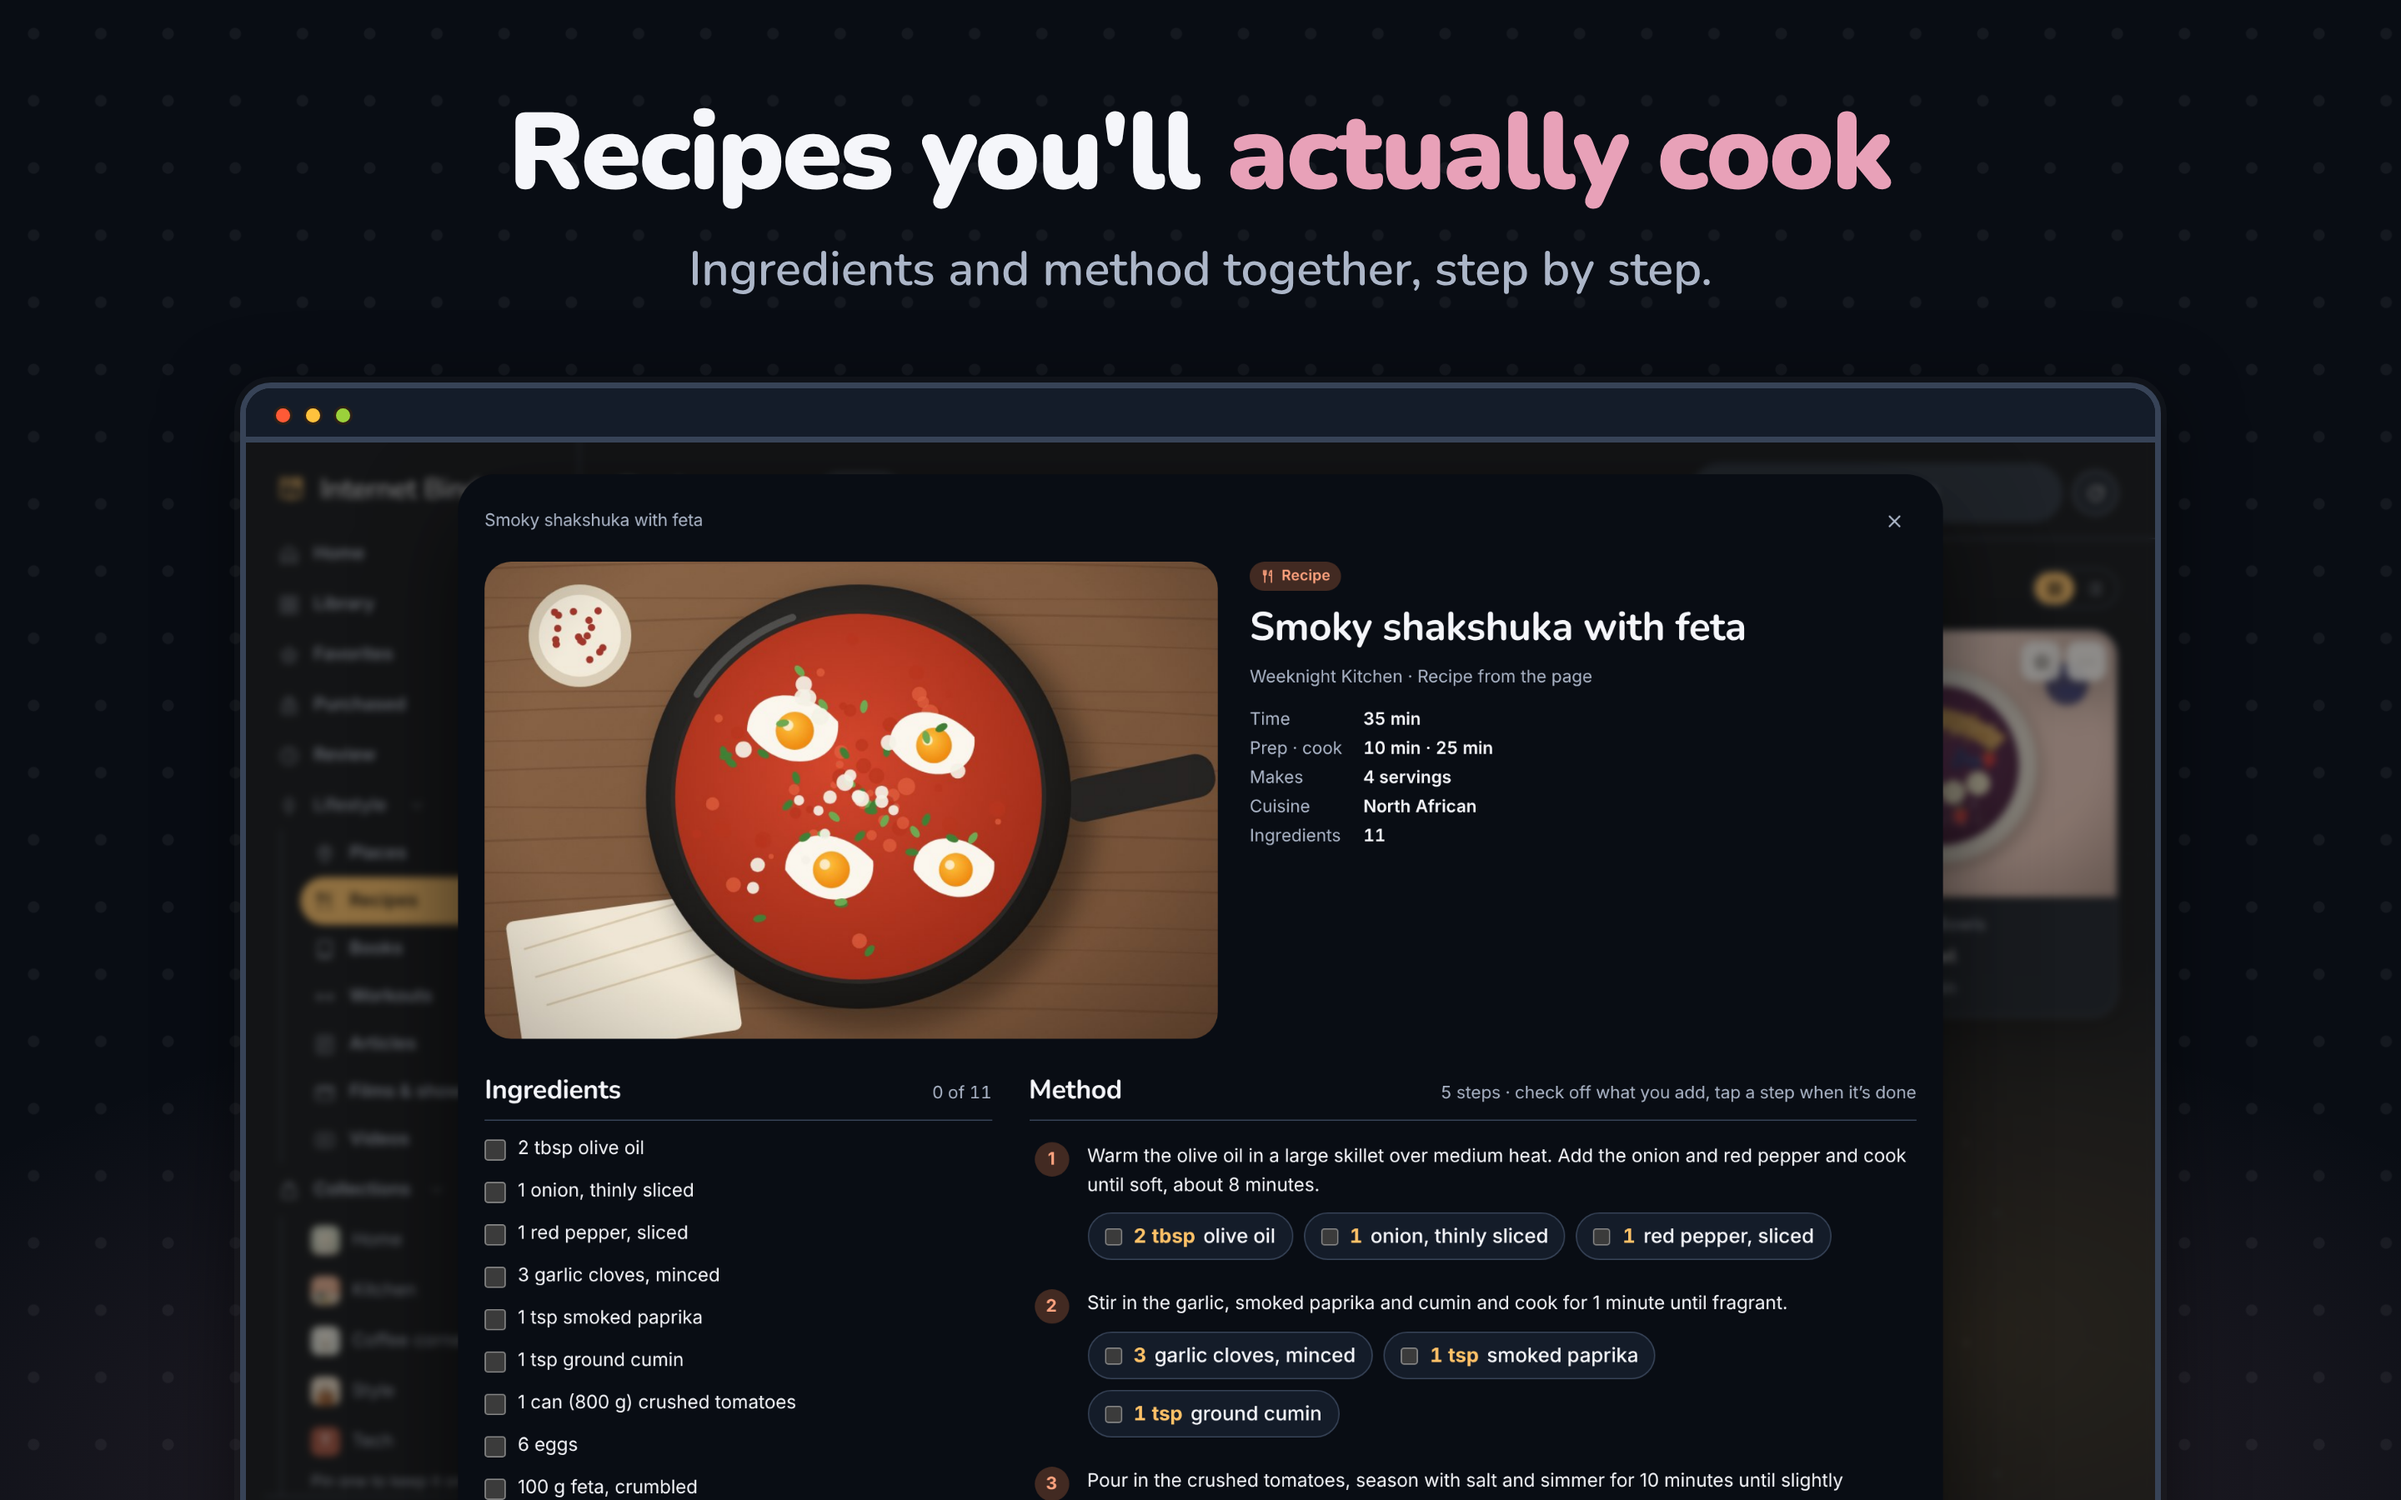
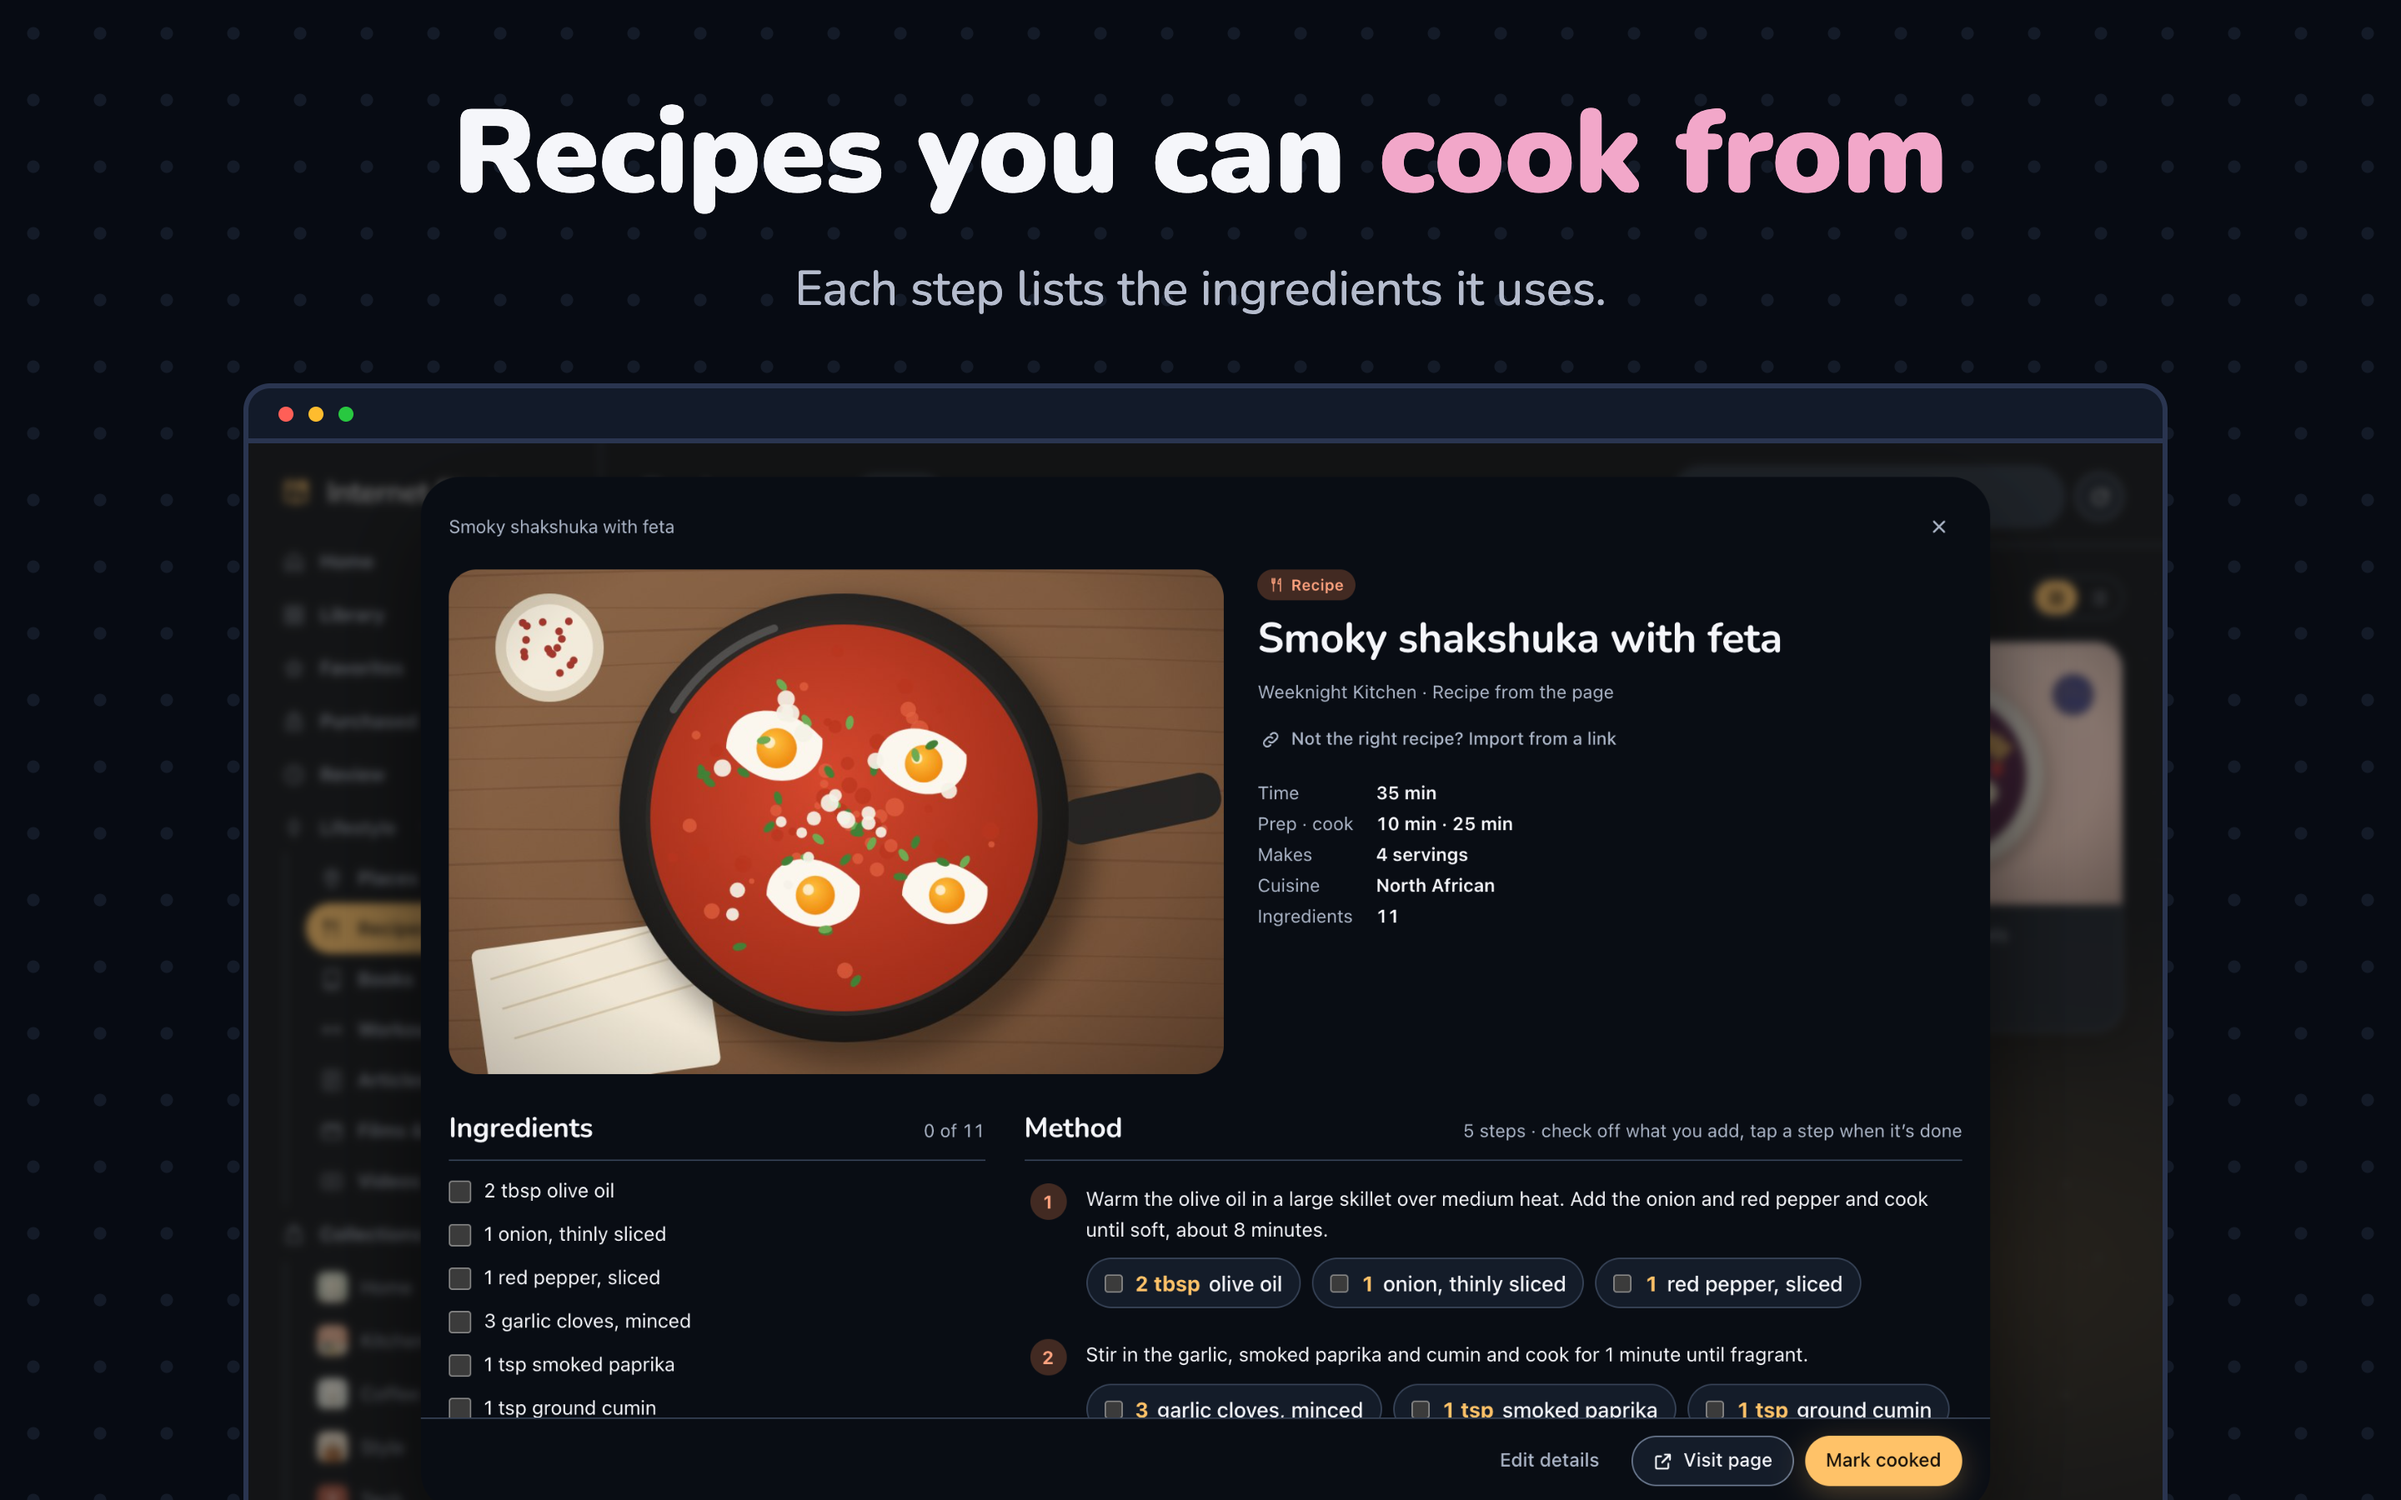
Mac store screenshots: plain captions and a script that retakes them

diff --git a/release/README.md b/release/README.md
@@ -56,7 +56,7 @@ the dashboard first. Pushing a `v*.*.*` tag still publishes Chrome through `.git
 - `store/ios/screenshots/en-US/` – iPhone 6.9" (1320×2868), 6.5" (1284×2778) and iPad 13" (2064×2752), made by
   `scripts/store-screenshots.sh`. fastlane sorts them by size; the number prefix sets the order. Raw shots go to
   `store/ios/raw/` (not committed).
-- `store/mac/` – the Mac App Store text (Safari-specific description, review notes) and 2880×1800 screenshots. Name, subtitle, categories and age rating are shared with iOS.
+- `store/mac/` – the Mac App Store text (Safari-specific description, review notes) and 2880×1800 screenshots, made by `scripts/mac-store-screenshots.mjs` with the captions in `store/mac/screenshots.json`. Name, subtitle, categories and age rating are shared with iOS.
 - `store/chrome/` – what the Chrome listing needs (edited by hand, see its README).
 
 ## Secrets (env vars, never committed)
